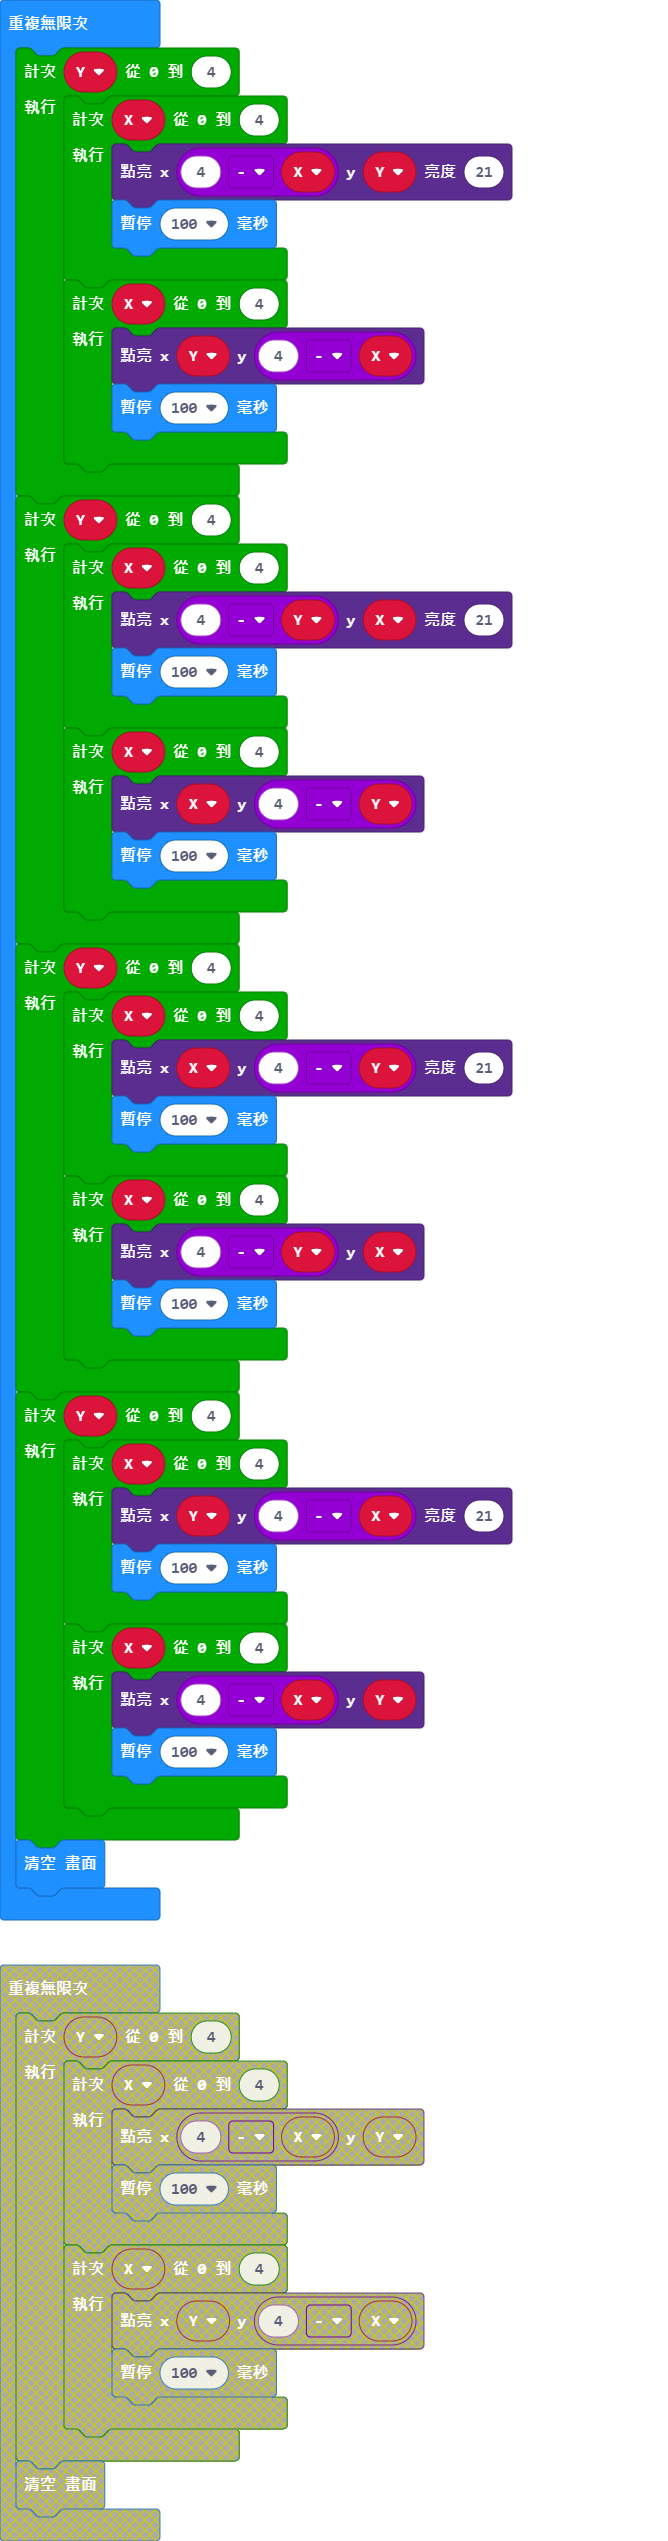
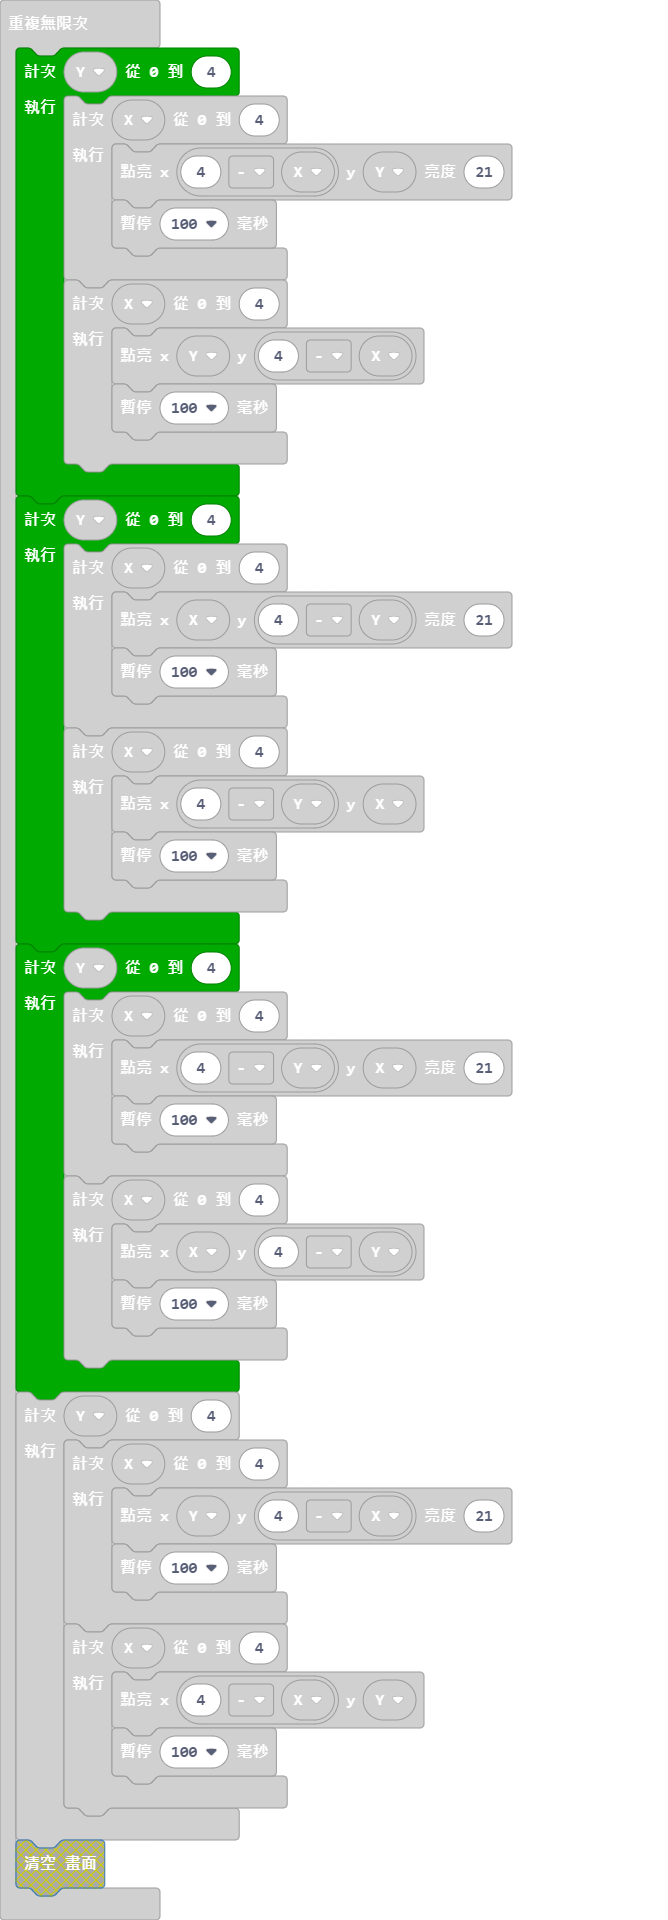
更新 main.blocks, main.ts

diff --git a/main.ts b/main.ts
@@ -11,21 +11,21 @@ basic.forever(function () {
     }
     for (let Y = 0; Y <= 4; Y++) {
         for (let X = 0; X <= 4; X++) {
-            led.plotBrightness(4 - Y, X, 21)
-            basic.pause(100)
-        }
-        for (let X = 0; X <= 4; X++) {
-            led.plot(X, 4 - Y)
-            basic.pause(100)
-        }
-    }
-    for (let Y = 0; Y <= 4; Y++) {
-        for (let X = 0; X <= 4; X++) {
             led.plotBrightness(X, 4 - Y, 21)
             basic.pause(100)
         }
         for (let X = 0; X <= 4; X++) {
             led.plot(4 - Y, X)
+            basic.pause(100)
+        }
+    }
+    for (let Y = 0; Y <= 4; Y++) {
+        for (let X = 0; X <= 4; X++) {
+            led.plotBrightness(4 - Y, X, 21)
+            basic.pause(100)
+        }
+        for (let X = 0; X <= 4; X++) {
+            led.plot(X, 4 - Y)
             basic.pause(100)
         }
     }
@@ -39,5 +39,4 @@ basic.forever(function () {
             basic.pause(100)
         }
     }
-    basic.clearScreen()
 })
